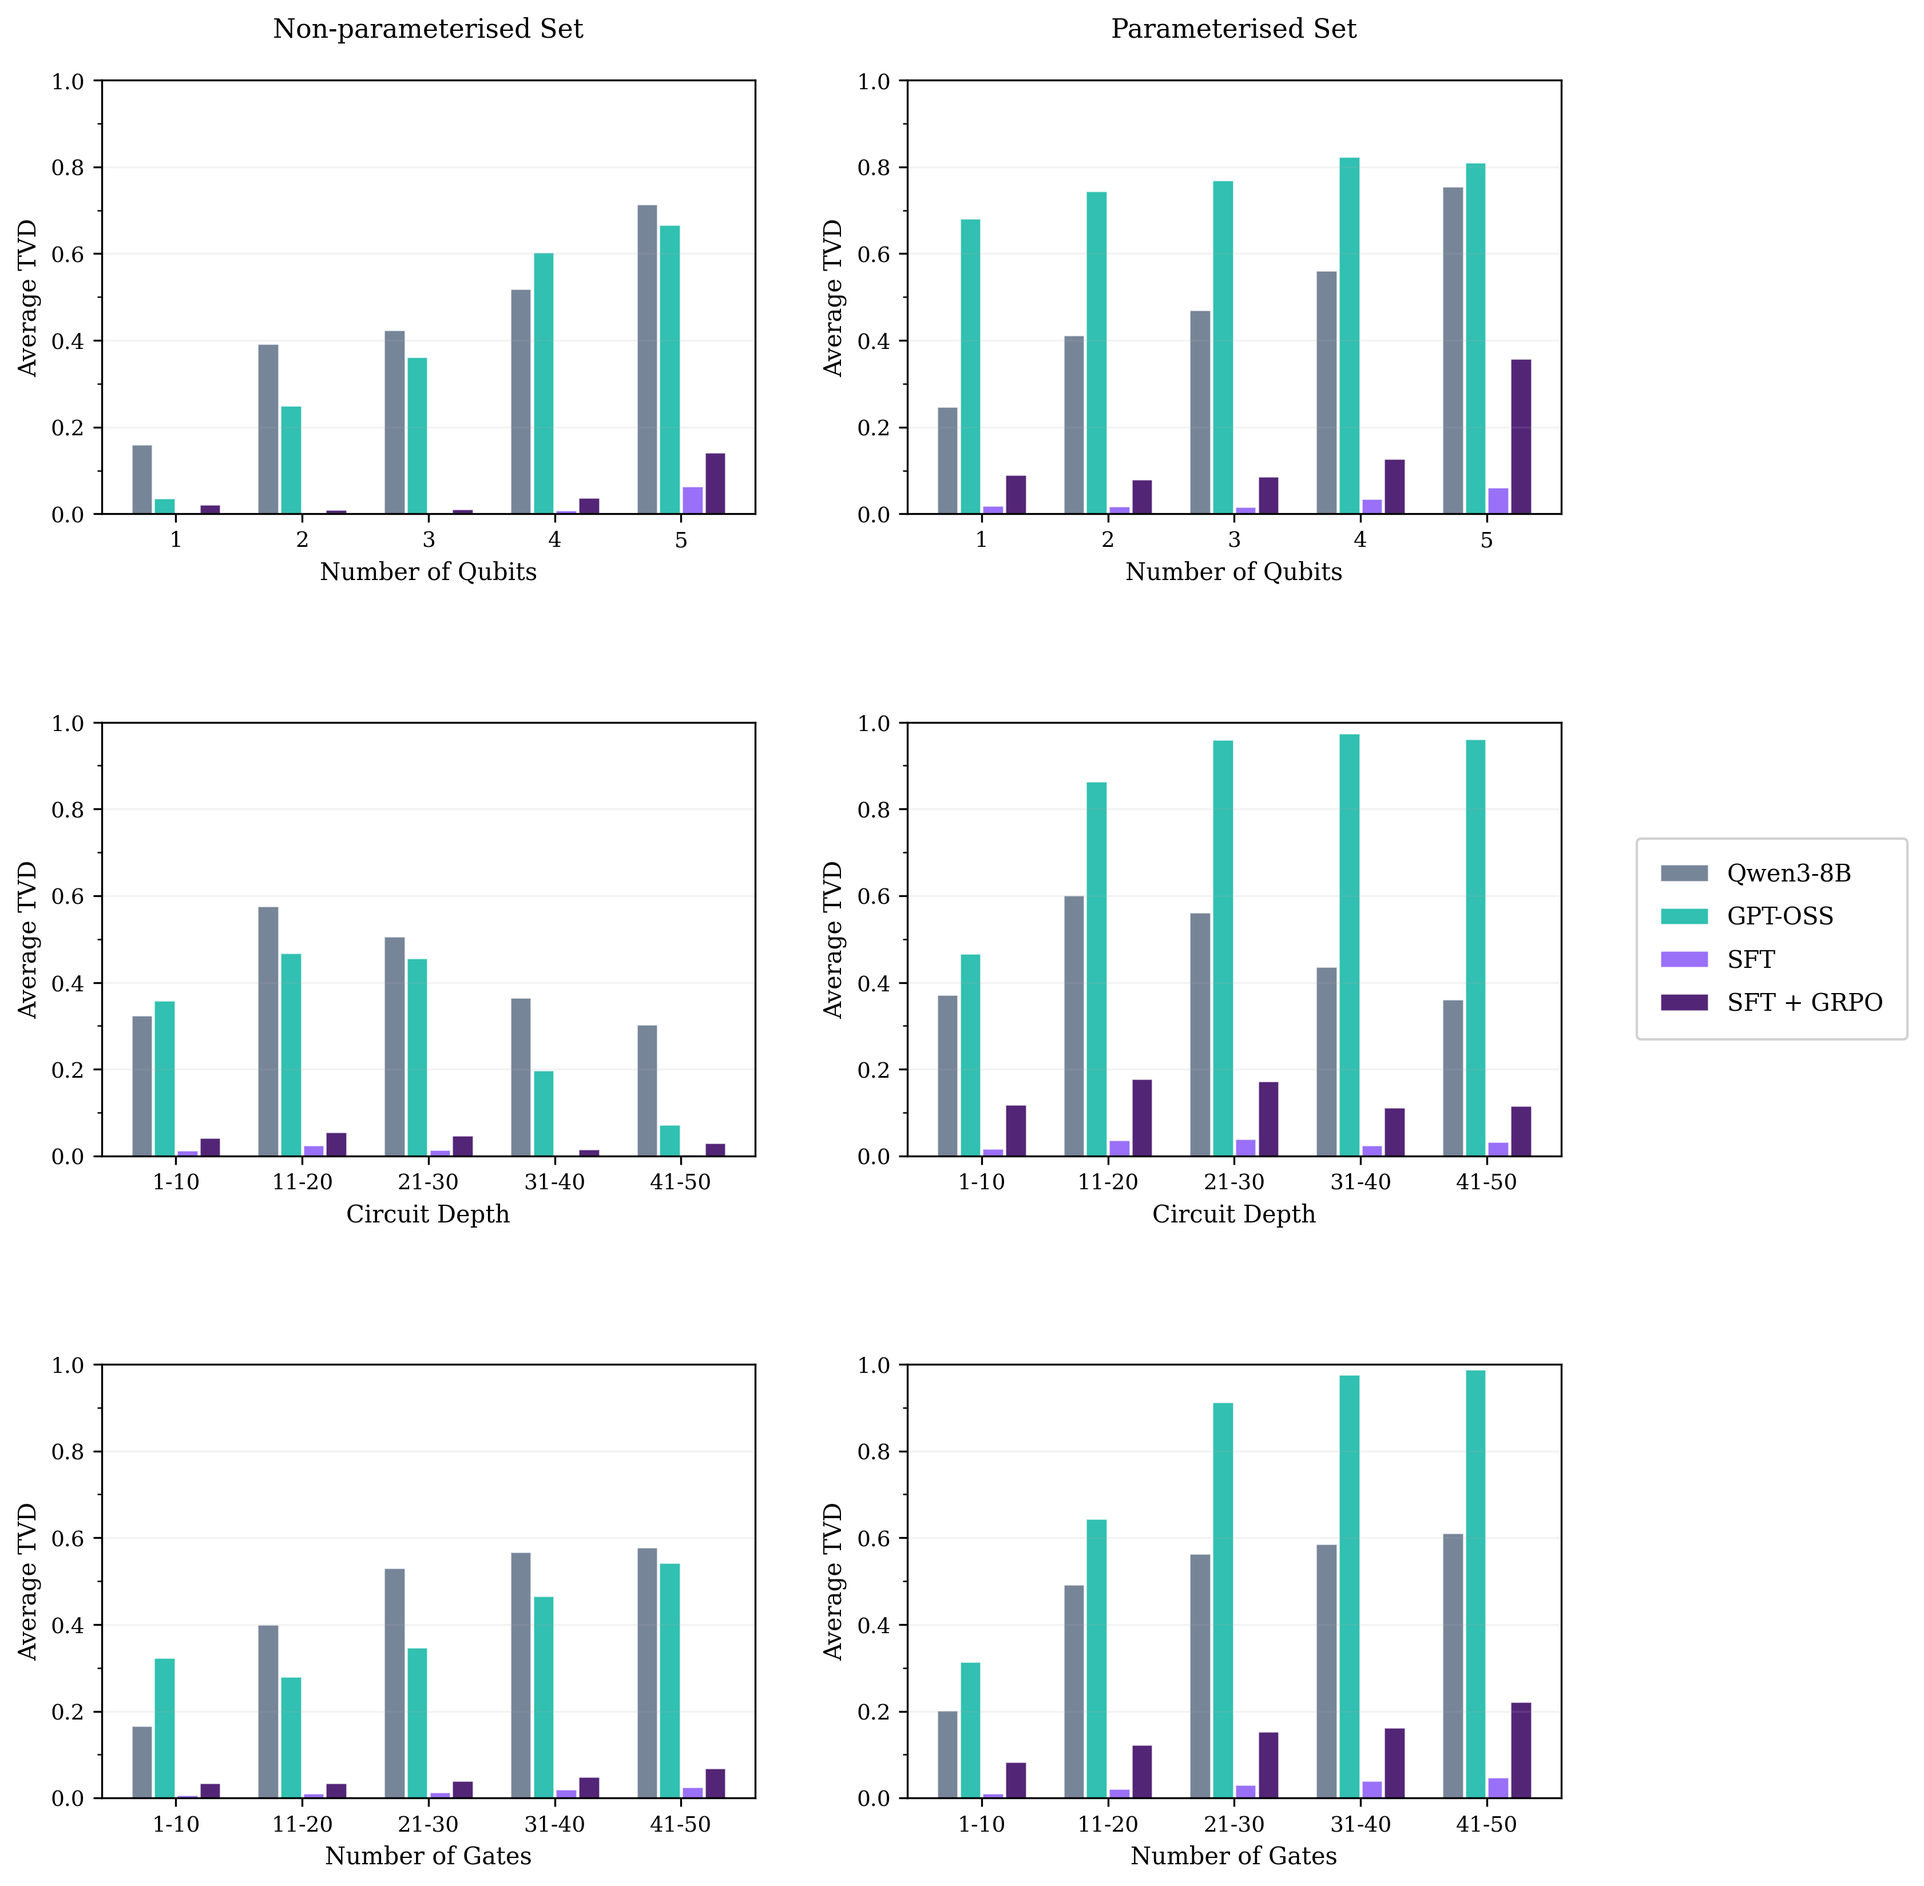
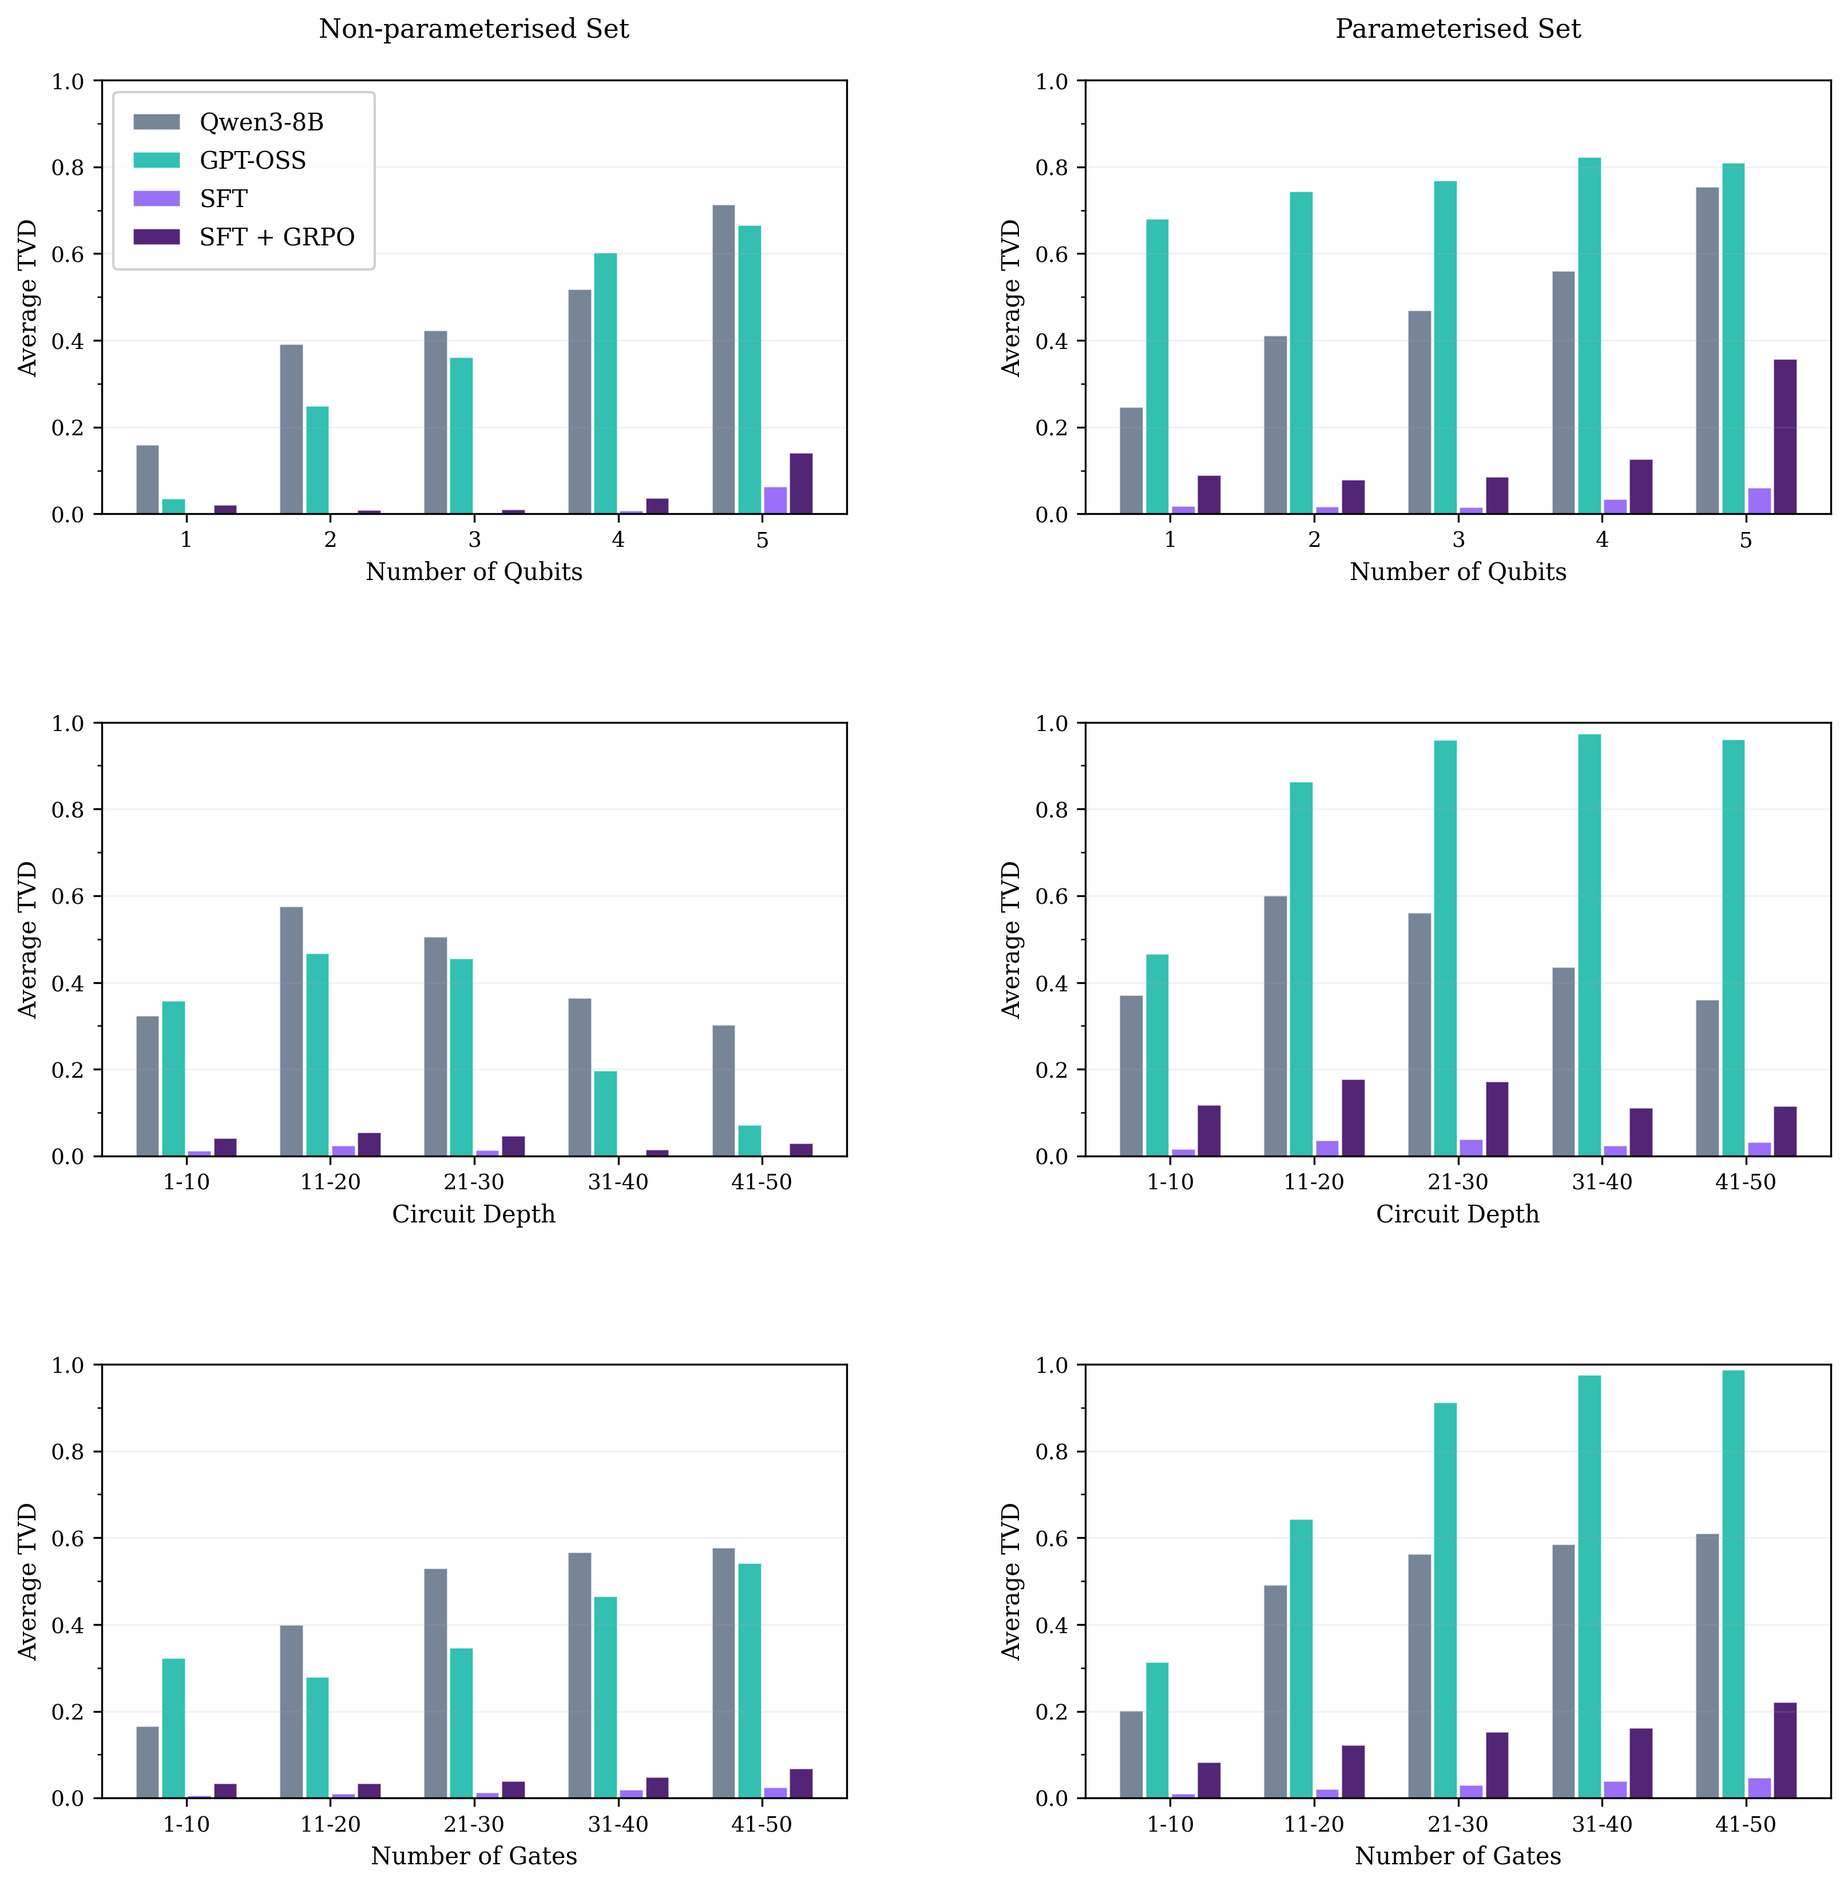
update plot legends

diff --git a/visualization/plot_tvd_training_progression.py b/visualization/plot_tvd_training_progression.py
@@ -10,7 +10,7 @@ import numpy as np
 import pandas as pd
 
 from config.paths import FIG_DIR
-from visualization.constants import apply_plot_style, PLOT_COLORS
+from visualization.constants import STEPWISE_PLOT_CONFIG, apply_plot_style, PLOT_COLORS
 
 apply_plot_style()
 
@@ -275,15 +275,24 @@ def plot_line_chart(
                 title="Parameterised Set",    show_ylabel=False)
 
     handles, labels = axes[0].get_legend_handles_labels()
-    fig.legend(
+    # fig.legend(
+    #     handles, labels,
+    #     loc="center left",
+    #     bbox_to_anchor=(1.0, 0.5),
+    #     fontsize=11,
+    #     framealpha=0.9,
+    #     title_fontsize=11,
+    #     borderpad=1.0,
+    #     labelspacing=0.8,
+    # )
+
+    ax_left, _ = axes
+
+    ax_left.legend(
         handles, labels,
-        loc="center left",
-        bbox_to_anchor=(1.0, 0.5),
-        fontsize=11,
-        framealpha=0.9,
-        title_fontsize=11,
-        borderpad=1.0,
-        labelspacing=0.8,
+        loc="upper left",
+        fontsize=STEPWISE_PLOT_CONFIG["legend_fontsize"],
+        framealpha=STEPWISE_PLOT_CONFIG["legend_framealpha"],
     )
 
     fig.tight_layout()
@@ -411,15 +420,22 @@ def plot_token_limit_chart(
 
     # Shared legend to the right, outside both panels
     handles, labels = axes[0].get_legend_handles_labels()
-    fig.legend(
+    # fig.legend(
+    #     handles, labels,
+    #     loc="center left",
+    #     bbox_to_anchor=(0.755, 0.5),
+    #     fontsize=11,
+    #     framealpha=0.9,
+    #     title_fontsize=11,
+    #     borderpad=1.0,
+    #     labelspacing=0.8,
+    # )
+    ax_left, _ = axes
+    ax_left.legend(
         handles, labels,
-        loc="center left",
-        bbox_to_anchor=(0.755, 0.5),
-        fontsize=11,
-        framealpha=0.9,
-        title_fontsize=11,
-        borderpad=1.0,
-        labelspacing=0.8,
+        loc="upper left",
+        fontsize=STEPWISE_PLOT_CONFIG["legend_fontsize"],
+        framealpha=STEPWISE_PLOT_CONFIG["legend_framealpha"],
     )
 
     fig.subplots_adjust(left=0.08, right=0.74, top=0.90, bottom=0.08, wspace=0.28)

diff --git a/visualization/plot_metrics_barchart.py b/visualization/plot_metrics_barchart.py
@@ -198,8 +198,7 @@ def plot_barchart(
 
     fig = plt.figure(figsize=(13, 13))
     gs = fig.add_gridspec(
-        3, 3,
-        width_ratios=[1, 1, 0.18],
+        3, 2,
         hspace=0.48,
         wspace=0.32,
     )
@@ -212,19 +211,16 @@ def plot_barchart(
                 ax.set_title(clabel, fontsize=11, pad=18)
             _plot_group(ax, dim, cdata, model_labels, "")
 
-    # Shared legend in the right-hand panel spanning all rows
-    legend_ax = fig.add_subplot(gs[:, 2])
-    legend_ax.set_axis_off()
+    # Legend inside the top-left plot
     handles, labels = axes[0][0].get_legend_handles_labels()
-    legend_ax.legend(
+    axes[0][0].legend(
         handles,
         labels,
-        loc="center",
+        loc="upper left",
         fontsize=10,
         framealpha=0.9,
-        title_fontsize=10,
-        borderpad=1.0,
-        labelspacing=0.8,
+        borderpad=0.8,
+        labelspacing=0.6,
     )
 
     fig.savefig(save_path, dpi=300, bbox_inches="tight")

diff --git a/visualization/plot_step_by_step_combined.py b/visualization/plot_step_by_step_combined.py
@@ -122,14 +122,22 @@ def plot_combined(
         if label not in seen:
             seen[label] = handle
 
-    fig.legend(
+    # fig.legend(
+    #     list(seen.values()),
+    #     list(seen.keys()),
+    #     loc="center left",
+    #     bbox_to_anchor=(1.01, 0.5),
+    #     fontsize=STEPWISE_PLOT_CONFIG["legend_fontsize"],
+    #     framealpha=STEPWISE_PLOT_CONFIG["legend_framealpha"],
+    #     borderaxespad=0,
+    # )
+
+    ax_left.legend(
         list(seen.values()),
         list(seen.keys()),
-        loc="center left",
-        bbox_to_anchor=(1.01, 0.5),
+        loc="lower left",
         fontsize=STEPWISE_PLOT_CONFIG["legend_fontsize"],
         framealpha=STEPWISE_PLOT_CONFIG["legend_framealpha"],
-        borderaxespad=0,
     )
 
     plt.tight_layout()
